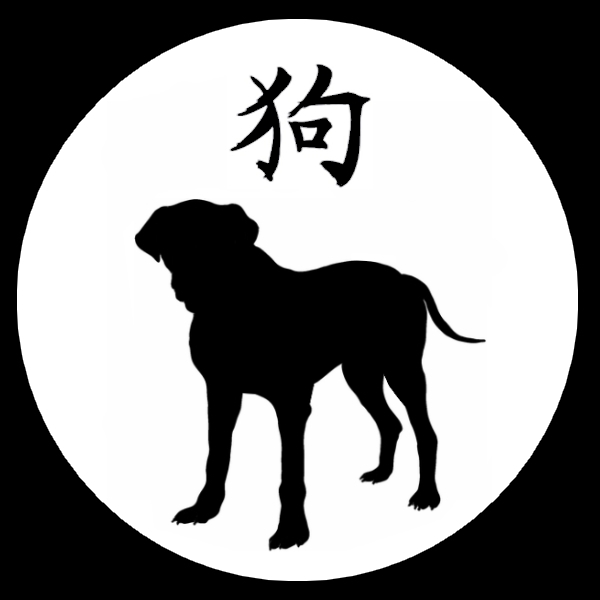
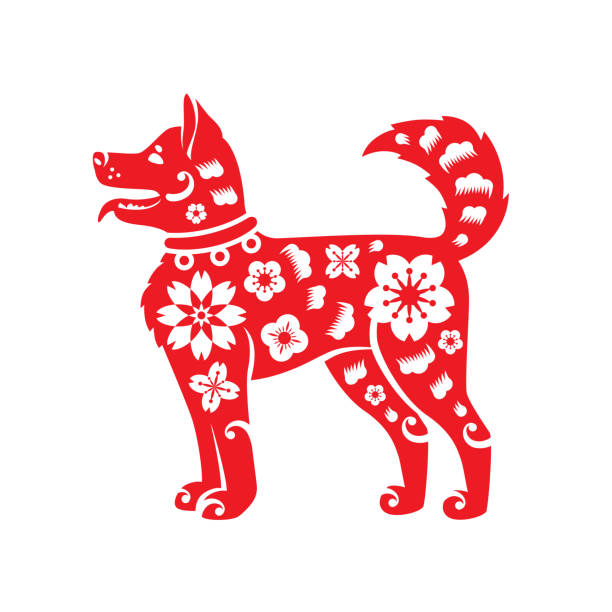
Correct Directory placement and orroe fix of broken links

diff --git a/Includes/inc_button_nav.php b/Includes/inc_button_nav.php
@@ -1,9 +1,9 @@
-<img src="images/HomePage.png" alt="Home Page" width="150" height="30" />
-<img src="images/SiteLayout.png" alt="Site Layout" width="150" height="30" />
-<img src="images/ControlStructures.png" alt="Control Structures" width="150" height="30" />
-<img src="images/StringFunctions.png" alt="String Functions" width="150" height="30" />
-<img src="images/WebForms.png" alt="Web Forms" width="150" height="30" />
-<img src="images/MidtermAssessment.png" alt="Midterm Assessment" width="150" height="30" />
-<img src="images/StateInformation.png" alt="State Information" width="150" height="30" />
-<img src="images/UserTemplates.png" alt="User Templates" width="150" height="30" />
-<img src="images/FinalProject.png" alt="Final Project" width="150" height="30" />
+<img src="images/HomePage.jpg" alt="Home Page" width="150" height="30" />
+<img src="images/SiteLayout.jpg" alt="Site Layout" width="150" height="30" />
+<img src="images/ControlStructures.jpg" alt="Control Structures" width="150" height="30" />
+<img src="images/StringFunctions.jpg" alt="String Functions" width="150" height="30" />
+<img src="images/WebForms.jpg" alt="Web Forms" width="150" height="30" />
+<img src="images/MidtermAssessment.jpg" alt="Midterm Assessment" width="150" height="30" />
+<img src="images/StateInformation.jpg" alt="State Information" width="150" height="30" />
+<img src="images/UserTemplates.jpg" alt="User Templates" width="150" height="30" />
+<img src="images/FinalProject.jpg" alt="Final Project" width="150" height="30" />

diff --git a/Chinese_Zodiac_for_loop.php b/Chinese_Zodiac_for_loop.php
@@ -9,15 +9,16 @@
 <?php
 $Signs = array("Rat", "Ox", "Tiger", "Rabbit", "Dragon", "Snake",
                "Horse", "Goat", "Monkey", "Rooster", "Dog", "Pig");
-$Pictures = array("images/Rat.png", "images/Ox.png", "images/Tiger.png",
-                  "images/Rabbit.png", "images/Dragon.png", "images/Snake.png",
-                  "images/Horse.png", "images/Goat.png", "images/Monkey.png",
-                  "images/Rooster.png", "images/Dog.png", "images/Pig.png");
+$Pictures = array("images/Rat.jpg", "images/Ox.jpg", "images/Tiger.jpg",
+                  "images/Rabbit.jpg", "images/Dragon.jpg", "images/Snake.jpg",
+                  "images/Horse.jpg", "images/Goat.jpg", "images/Monkey.jpg",
+                  "images/Rooster.jpg", "images/Dog.jpg", "images/Pig.jpg");
 $StartYear = 1912;
-$CurrentYear = date("Y");
-
+$CurrentYear = date("Y"); 
 echo "<table>";
 echo "<tr>";
+
+
 for ($i = 0; $i < 12; ++$i) {
     echo "<th>$Signs[$i]<br /><img src=\"$Pictures[$i]\" alt=\"$Signs[$i]\" /></th>";
 }

diff --git a/Includes/inc_header.php b/Includes/inc_header.php
@@ -1,1 +1,3 @@
-<img src="images/ChineseZodiacBanner.png" alt="The Chinese Zodiac - A Code Demonstration for PHP" width="392" height="72" />
+<!-- <img src="images/ChineseZodiacBanner.jpg" alt="The Chinese Zodiac - A Code Demonstration for PHP" width="392" height="72"  /> -->
+
+<img src="images/ChineseZodiacBanner.jpg" alt="The Chinese Zodiac - A Code Demonstration for PHP" width="392" height="72" style="display: block; margin-left: auto; margin-right: auto;" />

diff --git a/README.md b/README.md
@@ -1,0 +1,39 @@
+Chinese Zodiac Project
+
+A PHP-based web application that dynamically displays the 12 signs of the Chinese Zodiac along with their respective images in an HTML table layout.
+
+Features
+
+Dynamic Array Rendering: Uses PHP arrays to map Chinese Zodiac signs to their image file paths.
+
+Automated Table Generation: Utilizes PHP for loops to generate table headers and image elements dynamically.
+
+Strict XHTML Compliance: Formatted with self-closing image tags and standard-compliant HTML tags.
+
+Project Structure
+
+ChineseZodiac/
+├── images/
+│   ├── Rat.jpg
+│   ├── Ox.jpg
+│   ├── Tiger.jpg
+│   ├── Rabbit.jpg
+│   ├── Dragon.jpg
+│   ├── Snake.jpg
+│   ├── Horse.jpg
+│   ├── Goat.jpg
+│   ├── Monkey.jpg
+│   ├── Rooster.jpg
+│   ├── Dog.jpg
+│   └── Pig.jpg
+├── index.php
+└── README.md
+
+
+Setup & Usage
+
+Copy the project directory to your local web server root (e.g., www/ or htdocs/ in WampServer/XAMPP).
+
+Ensure all 12 zodiac images are placed inside the /images/ directory using the standard .jpg naming convention.
+
+Open your web browser and navigate to http://localhost/ChineseZodiac/index.php.
